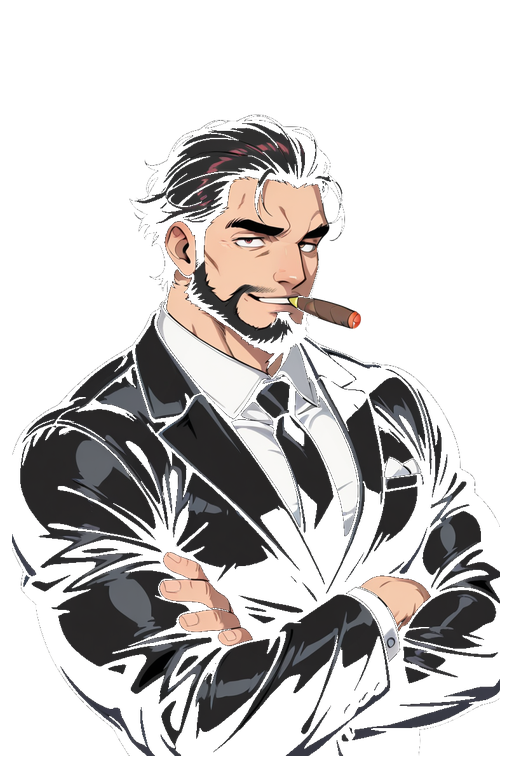
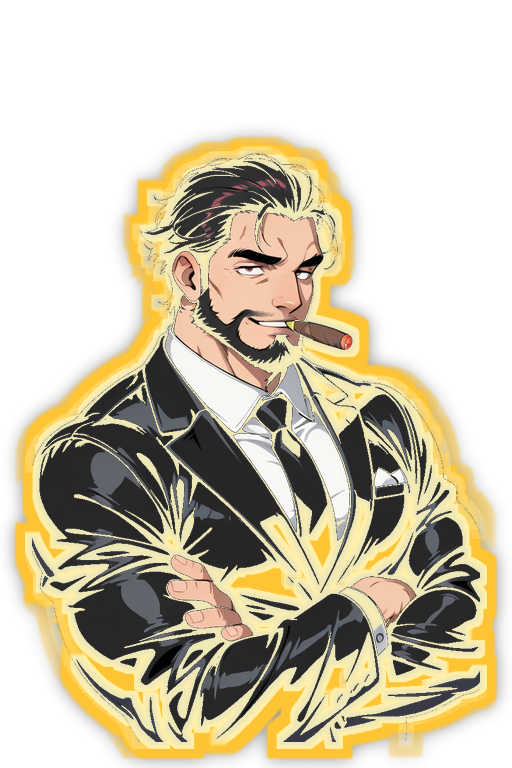
Improve customer portrait readability

diff --git a/src/objects/CustomerQueue.ts b/src/objects/CustomerQueue.ts
@@ -70,9 +70,16 @@ export class CustomerQueue extends Phaser.GameObjects.Container {
     const imageKey = customerVariantKeys[Math.floor(Math.random() * customerVariantKeys.length)]
       || (Math.random() < 0.5 ? 'customer-normal-male' : 'customer-normal-female');
 
+    const portraitPlate = this.scene.add.graphics();
+    portraitPlate.fillStyle(0x1b0a02, 0.62);
+    portraitPlate.lineStyle(2, 0xffc93a, 0.5);
+    portraitPlate.fillRoundedRect(-58, -61, 116, 122, 12);
+    portraitPlate.strokeRoundedRect(-58, -61, 116, 122, 12);
+    container.add(portraitPlate);
+
     if (this.scene.textures.exists(imageKey)) {
       const portrait = this.scene.add.image(0, 0, imageKey);
-      const pScale = Math.min(120 / portrait.width, 116 / portrait.height);
+      const pScale = Math.min(126 / portrait.width, 122 / portrait.height);
       portrait.setScale(pScale);
       container.add(portrait);
       // Move emoji behind/hide it
